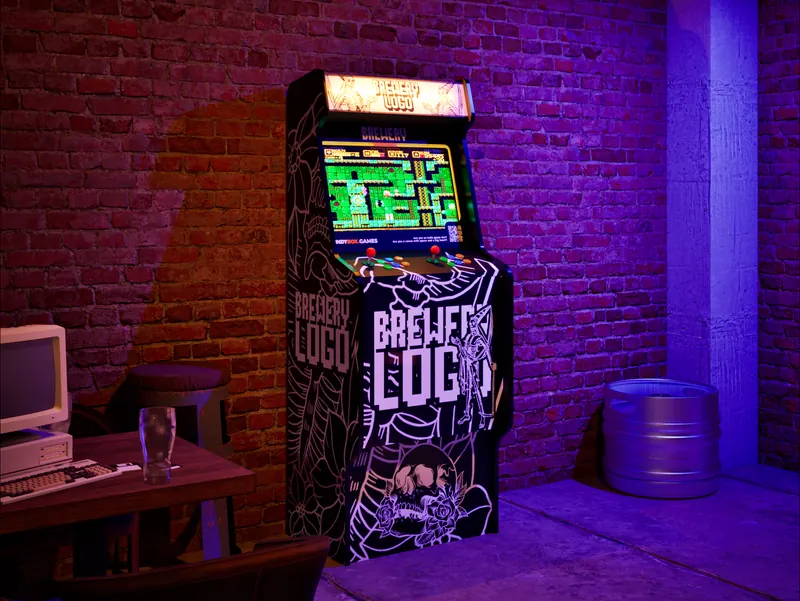
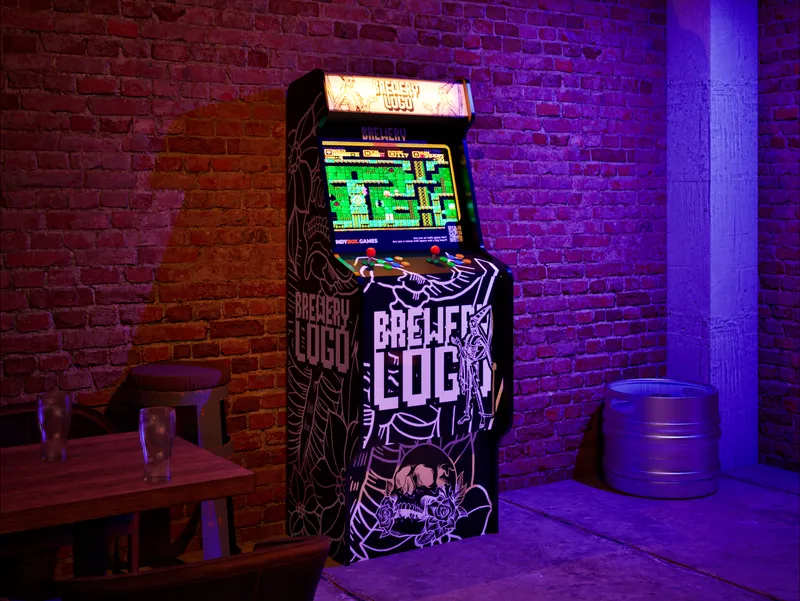
Gallery: three new renders (slots 1, 5, 7); old ones kept in gallery/old
Claude-Session: https://claude.ai/code/session_01G1ucLrMbuPWt4HdHkzrX8K

Changed region(s): [[0.0, 0.5391, 0.2188, 0.8386]]

diff --git a/index.html b/index.html
@@ -353,12 +353,12 @@ html{background:#000}body{margin:0}img{max-width:100%}[hidden]{display:none!impo
       </div>
       <div class="gallery" aria-label="Cabinet renders">
 <button type="button" class="g-item g-wide" data-i="0" data-full="images/gallery/2.webp?v=6" data-cap="Players gather round the cabinet"><img src="images/gallery/2-t.webp?v=6" width="800" height="601" alt="Customers standing around an Indybox cabinet" loading="lazy"></button>
-<button type="button" class="g-item" data-i="1" data-full="images/gallery/1.webp?v=4" data-cap="Wrapped for a brewery, in the taproom"><img src="images/gallery/1-t.webp?v=4" width="800" height="601" alt="An Indybox cabinet in a brick-walled taproom" loading="lazy"></button>
+<button type="button" class="g-item" data-i="1" data-full="images/gallery/1.webp?v=7" data-cap="Wrapped for a brewery, in the taproom"><img src="images/gallery/1-t.webp?v=7" width="800" height="601" alt="An Indybox cabinet in a brick-walled taproom" loading="lazy"></button>
 <button type="button" class="g-item" data-i="2" data-full="images/gallery/3.webp?v=4" data-cap="The backlit marquee carries the brewery's logo"><img src="images/gallery/3-t.webp?v=4" width="800" height="601" alt="Close-up of the cabinet's lit marquee" loading="lazy"></button>
 <button type="button" class="g-item" data-i="3" data-full="images/gallery/4.webp?v=4" data-cap="Screen and controls"><img src="images/gallery/4-t.webp?v=4" width="800" height="601" alt="Close-up of the screen and joysticks" loading="lazy"></button>
-<button type="button" class="g-item" data-i="4" data-full="images/gallery/5.webp?v=4" data-cap="Front on"><img src="images/gallery/5-t.webp?v=4" width="800" height="601" alt="Front view of the cabinet" loading="lazy"></button>
+<button type="button" class="g-item" data-i="4" data-full="images/gallery/5.webp?v=7" data-cap="Front on"><img src="images/gallery/5-t.webp?v=7" width="800" height="601" alt="Front view of the cabinet" loading="lazy"></button>
 <button type="button" class="g-item" data-i="5" data-full="images/gallery/6.webp?v=4" data-cap="A QR code takes players to indybox.games"><img src="images/gallery/6-t.webp?v=4" width="800" height="601" alt="Close-up of the QR code panel" loading="lazy"></button>
-<button type="button" class="g-item" data-i="6" data-full="images/gallery/7.webp?v=4" data-cap="Side panel artwork"><img src="images/gallery/7-t.webp?v=4" width="800" height="601" alt="Side of the cabinet with brewery artwork" loading="lazy"></button>
+<button type="button" class="g-item" data-i="6" data-full="images/gallery/7.webp?v=7" data-cap="Side panel artwork"><img src="images/gallery/7-t.webp?v=7" width="800" height="601" alt="Side of the cabinet with brewery artwork" loading="lazy"></button>
       </div>
       <dialog id="lightbox" aria-label="Image viewer">
         <img id="lb-img" alt="">
